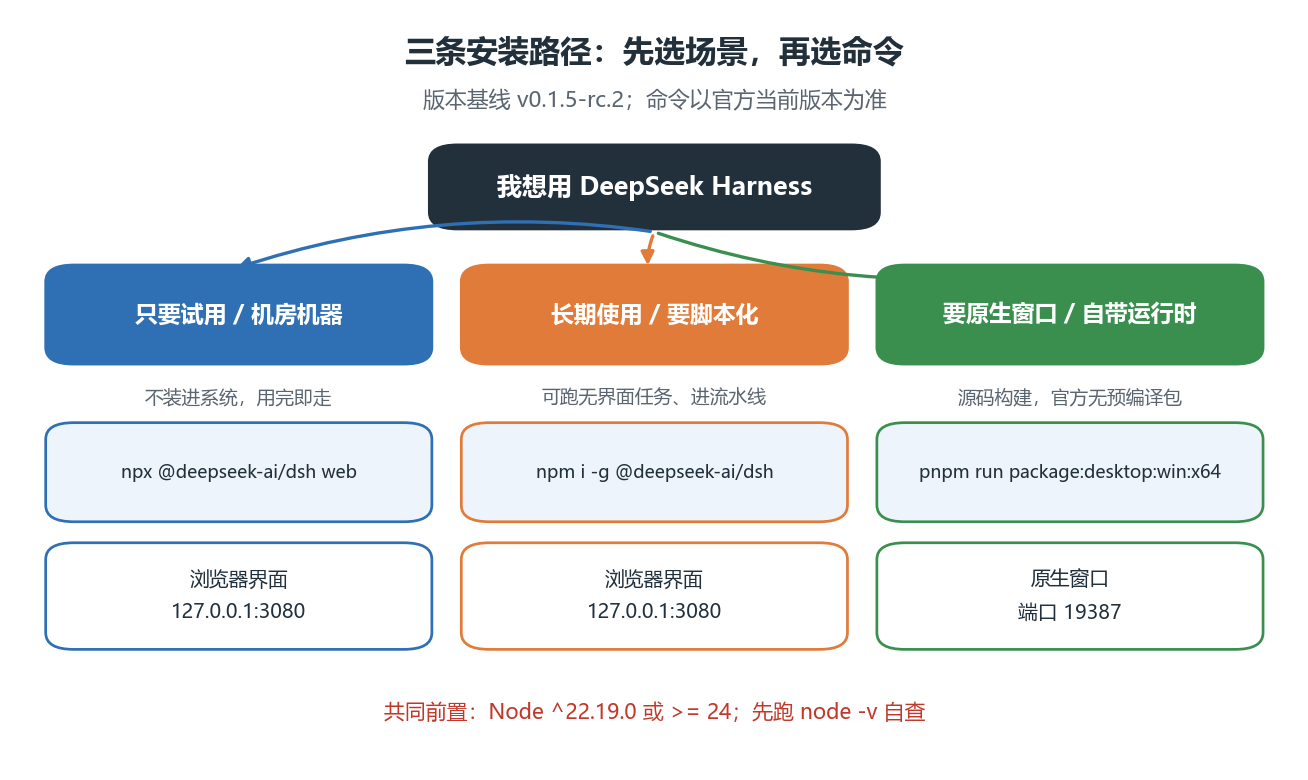
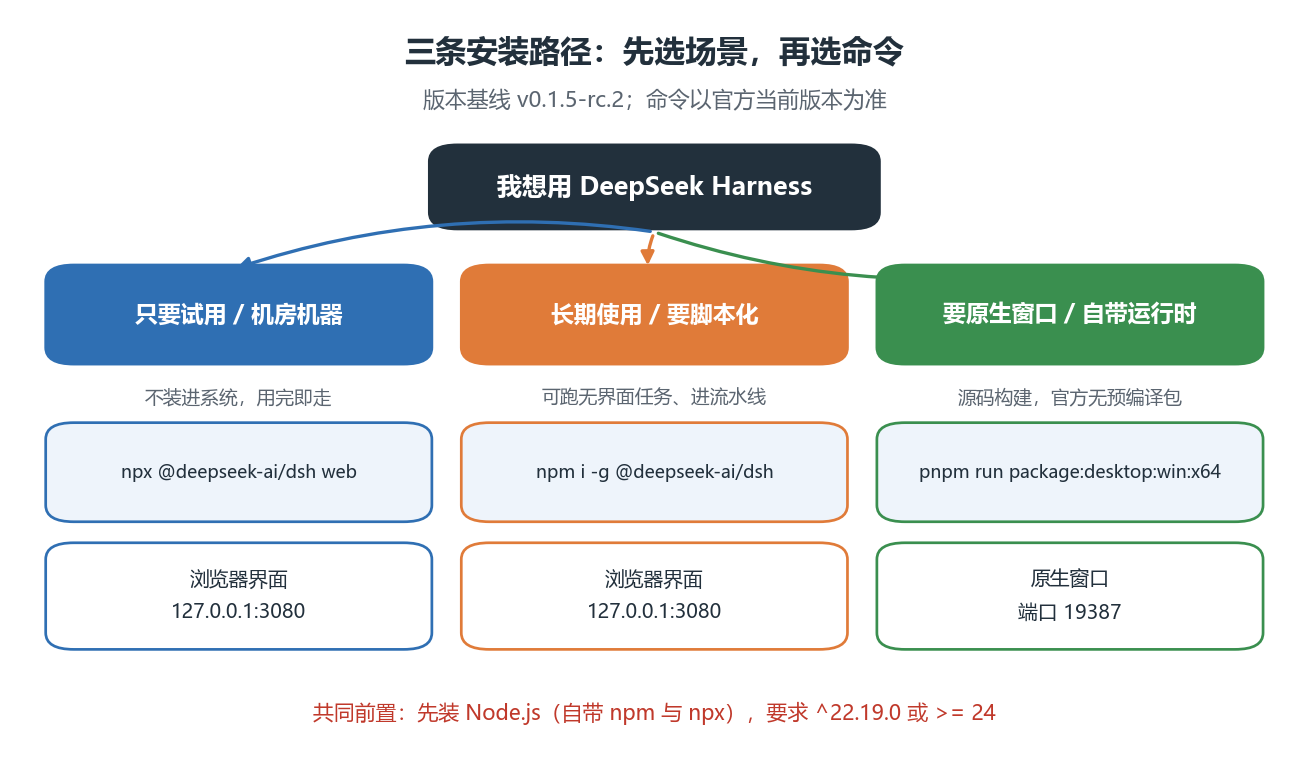
第9章 M1 修订：补上 Node.js 与 npm 的前置安装说明（用户反馈）
- 02 节新增 0.2-0.5：Node.js / npm / npx 是什么、三平台安装方式（官网包、winget、fnm、Homebrew、nvm、发行版）、装完自查、装不上怎么办
- 章节编号保持 1-8 不变，交叉引用不受影响；README 运行环境与 01 节不变
- 图 install_paths 底注更新为先装 Node.js（自带 npm 与 npx）
- 校验：validate_book 0 problems；validate_code 09-agent --strict 0 problems

Changed region(s): [[0.2446, 0.8923, 0.7645, 0.9231]]

diff --git a/docs/build/make_chap9_figures.py b/docs/build/make_chap9_figures.py
@@ -170,7 +170,7 @@ def fig_install_paths():
         box(ax, x, 33, 29, 12, cmd, LIGHT, tc=DARK, fs=8.6, bold=False, ec=color)
         last = "浏览器界面" + chr(10) + "127.0.0.1:3080" if i < 2 else "原生窗口" + chr(10) + "端口 19387"
         box(ax, x, 16, 29, 13, last, "white", tc=DARK, fs=9.5, bold=False, ec=color)
-    ax.text(50, 7, "共同前置：Node ^22.19.0 或 >= 24；先跑 node -v 自查", ha="center", va="center", fontsize=10, color="#c0392b")
+    ax.text(50, 7, "共同前置：先装 Node.js（自带 npm 与 npx），要求 ^22.19.0 或 >= 24", ha="center", va="center", fontsize=10, color="#c0392b")
     save(fig, "install_paths.png")
 
 def fig_permission_flow():

diff --git a/docs/chapters/09-agent/02-安装与配置.md b/docs/chapters/09-agent/02-安装与配置.md
@@ -15,7 +15,9 @@
 - 第 0 章的终端使用与 Python 环境；
 - 会看命令行输出、会复制粘贴命令即可，不需要前端或运维经验。
 
-## 0. 版本与时效声明（先读 30 秒）
+## 0. 安装前的准备（先读 2 分钟）
+
+### 0.1 dsh 的版本状态与时效
 
 DeepSeek Harness（dsh）目前处于官方所说的 **开发者预览（Developer Preview）** 阶段，迭代很快：
 
@@ -37,6 +39,60 @@ npm view @deepseek-ai/dsh version      # latest 渠道的具体版本号
 - 文档站：https://deepseek-harness.github.io/deepseek-harness/
 - 版本记录：仓库 Releases 页（每个版本都有中文更新说明）
 
+### 0.2 Node.js、npm、npx 是什么
+
+dsh 本身是用 JavaScript / TypeScript 写的，所以需要一个 JavaScript 运行时；它的安装包发布在 npm 仓库里，所以还需要一个包管理器。三者关系一句话：
+
+**Node.js 提供运行环境 → npm 负责从仓库取包、装包 → dsh 是 npm 上的一个包。**
+
+| 名词 | 全称 | 作用 | 本节里第一次用到 |
+| ---- | ---- | ---- | ---- |
+| Node.js | —— | 让 JavaScript 脱离浏览器运行的运行时 | 运行 dsh |
+| npm | Node Package Manager | Node 的官方包管理器：装包、升级、卸载 | `npm i -g @deepseek-ai/dsh` |
+| npx | npm exec | npm 自带的"临时执行器"：不永久安装，直接下载并运行 | `npx @deepseek-ai/dsh web` |
+
+> 关键点：**安装 Node.js 时会自动装上 npm 与 npx**，不需要（也不应该）单独去装 npm。网上"先装 node 再装 npm"的教程是过时说法。
+
+### 0.3 安装 Node.js（三平台 + 两种风格）
+
+版本要求：`^22.19.0` 或 `>= 24.0.0`。推荐装 **Node 24 LTS**（当前 LTS 代号 Krypton，24.x）；**Node 22 LTS**（Jod，22.19 以上）也满足要求。
+
+| 平台 | 方式 | 步骤 / 命令 | 适合谁 |
+| ---- | ---- | ---- | ---- |
+| Windows | 官网安装包（推荐） | 打开 nodejs.org → 下载 LTS 版 .msi → 双击安装（保持默认勾选 Add to PATH）→ 重开终端 | 绝大多数同学 |
+| Windows | winget | `winget install OpenJS.NodeJS.LTS` | 已用 winget 管理软件的同学 |
+| Windows / macOS | 版本管理器 fnm | `winget install Schniz.fnm` 或 `brew install fnm`，再执行 `fnm install 24` 与 `fnm use 24` | 需要多个 Node 版本共存 |
+| macOS | Homebrew | `brew install node@24` | 已装 Homebrew |
+| macOS / Linux | nvm | 按 nvm 官方 README 提供的脚本安装，然后 `nvm install --lts` | 服务器、多版本场景 |
+| Linux | 发行版包管理器 / NodeSource | apt、dnf 等；**注意仓库里的版本可能偏旧**，装完务必按 0.4 自查 | 有 root 权限的服务器 |
+
+两条经验：
+
+1. 装完**一定要重开终端**（环境变量 PATH 才会生效），否则会一直提示找不到命令；
+2. 有版本管理器时优先用它——将来 dsh 要求更高版本时，一条命令就能切换。
+
+### 0.4 装完自查
+
+```sh
+node -v          # 期望 v24.x 或 v22.19 以上
+npm -v           # 能打印版本号即可
+npx --version    # npx 随 npm 一起安装
+npm config get registry   # 默认 https://registry.npmjs.org/
+```
+
+如果 `npm config get registry` 显示的是公司内网地址，说明这台机器配置了私有仓库，安装 dsh 前请先确认该仓库能拉到公开包（否则改用个人电脑，或按管理员要求配置代理）。
+
+### 0.5 装不上怎么办
+
+| 现象 | 可能原因 | 处理 |
+| ---- | ---- | ---- |
+| node 不是内部或外部命令 / command not found | 没装成功，或 PATH 未生效 | 重开终端；仍不行则重装（Windows 安装时保持勾选 Add to PATH） |
+| npm 报 EACCES / EPERM 权限错误 | 用管理员或 root 装了全局包 | 不要用 sudo / 管理员装全局包；用普通用户重装 Node 后再试 |
+| 下载很慢或超时 | 网络问题 | 临时换镜像：`npm config set registry https://registry.npmmirror.com`；或按校网要求配置代理 |
+| 版本太低（例如 v20） | 系统包管理器里的版本旧 | 用 fnm / nvm 安装 24 LTS，或从官网重装 |
+| 公司电脑装不了 | 安装策略限制 | 用官网 zip 免安装版解压后手动加 PATH，或改用学校机器 |
+| 卸载后旧版本还在 | 多个 Node 共存 | Windows 用 `where node`、macOS / Linux 用 `which -a node` 查看来源并清理 |
+
 ## 1. 三条路径怎么选
 
 ![三条安装路径](./images/install_paths.png)
@@ -47,7 +103,7 @@ npm view @deepseek-ai/dsh version      # latest 渠道的具体版本号
 | B 全局 CLI 版 | 长期使用、要写脚本、要无界面跑任务 | Node.js + npm | npm i -g @deepseek-ai/dsh@latest |
 | C 桌面版 | 想要原生窗口与自带运行时 | Node.js + pnpm + 源码构建 | 重新拉源码构建 |
 
-共同前置只有一个：**Node.js**。官方仓库要求的版本是 ^22.19.0 或 >= 24.0.0。
+共同前置只有一个：**Node.js**（npm 与 npx 随它一起安装，见 0.2 与 0.3）。官方仓库要求的版本是 ^22.19.0 或 >= 24.0.0。
 
 ```sh
 node -v     # 例如 v24.19.0

diff --git a/docs/chapters/09-agent/README.md b/docs/chapters/09-agent/README.md
@@ -25,7 +25,7 @@
 
 - 先修：第 0 章（终端、Python 环境、LaTeX）与第 1 到 8 章任一（案例会复用 NumPy、Pandas、SciPy、Statsmodels、sklearn 的知识）。
 - 运行环境：
-  - Node.js ^22.19.0 或 >= 24.0.0（安装与自查见 02 节）；
+  - Node.js ^22.19.0 或 >= 24.0.0，**npm 与 npx 会随它一起装上**（Node 是什么、怎么装、怎么自查，见 02 节第 0 小节）；
   - 一个 DeepSeek 开放平台账号与 API Key（申请与付费见 02 节第 5 小节）；
   - Python 环境沿用第 0 章的 scicomp 环境（案例中的验证脚本需要 numpy / pandas / scipy / statsmodels / scikit-learn / matplotlib）。
 - 网络：安装与联网任务需要网络；**所有练习都提供离线替代路径**，断网时也能完成核心训练。
